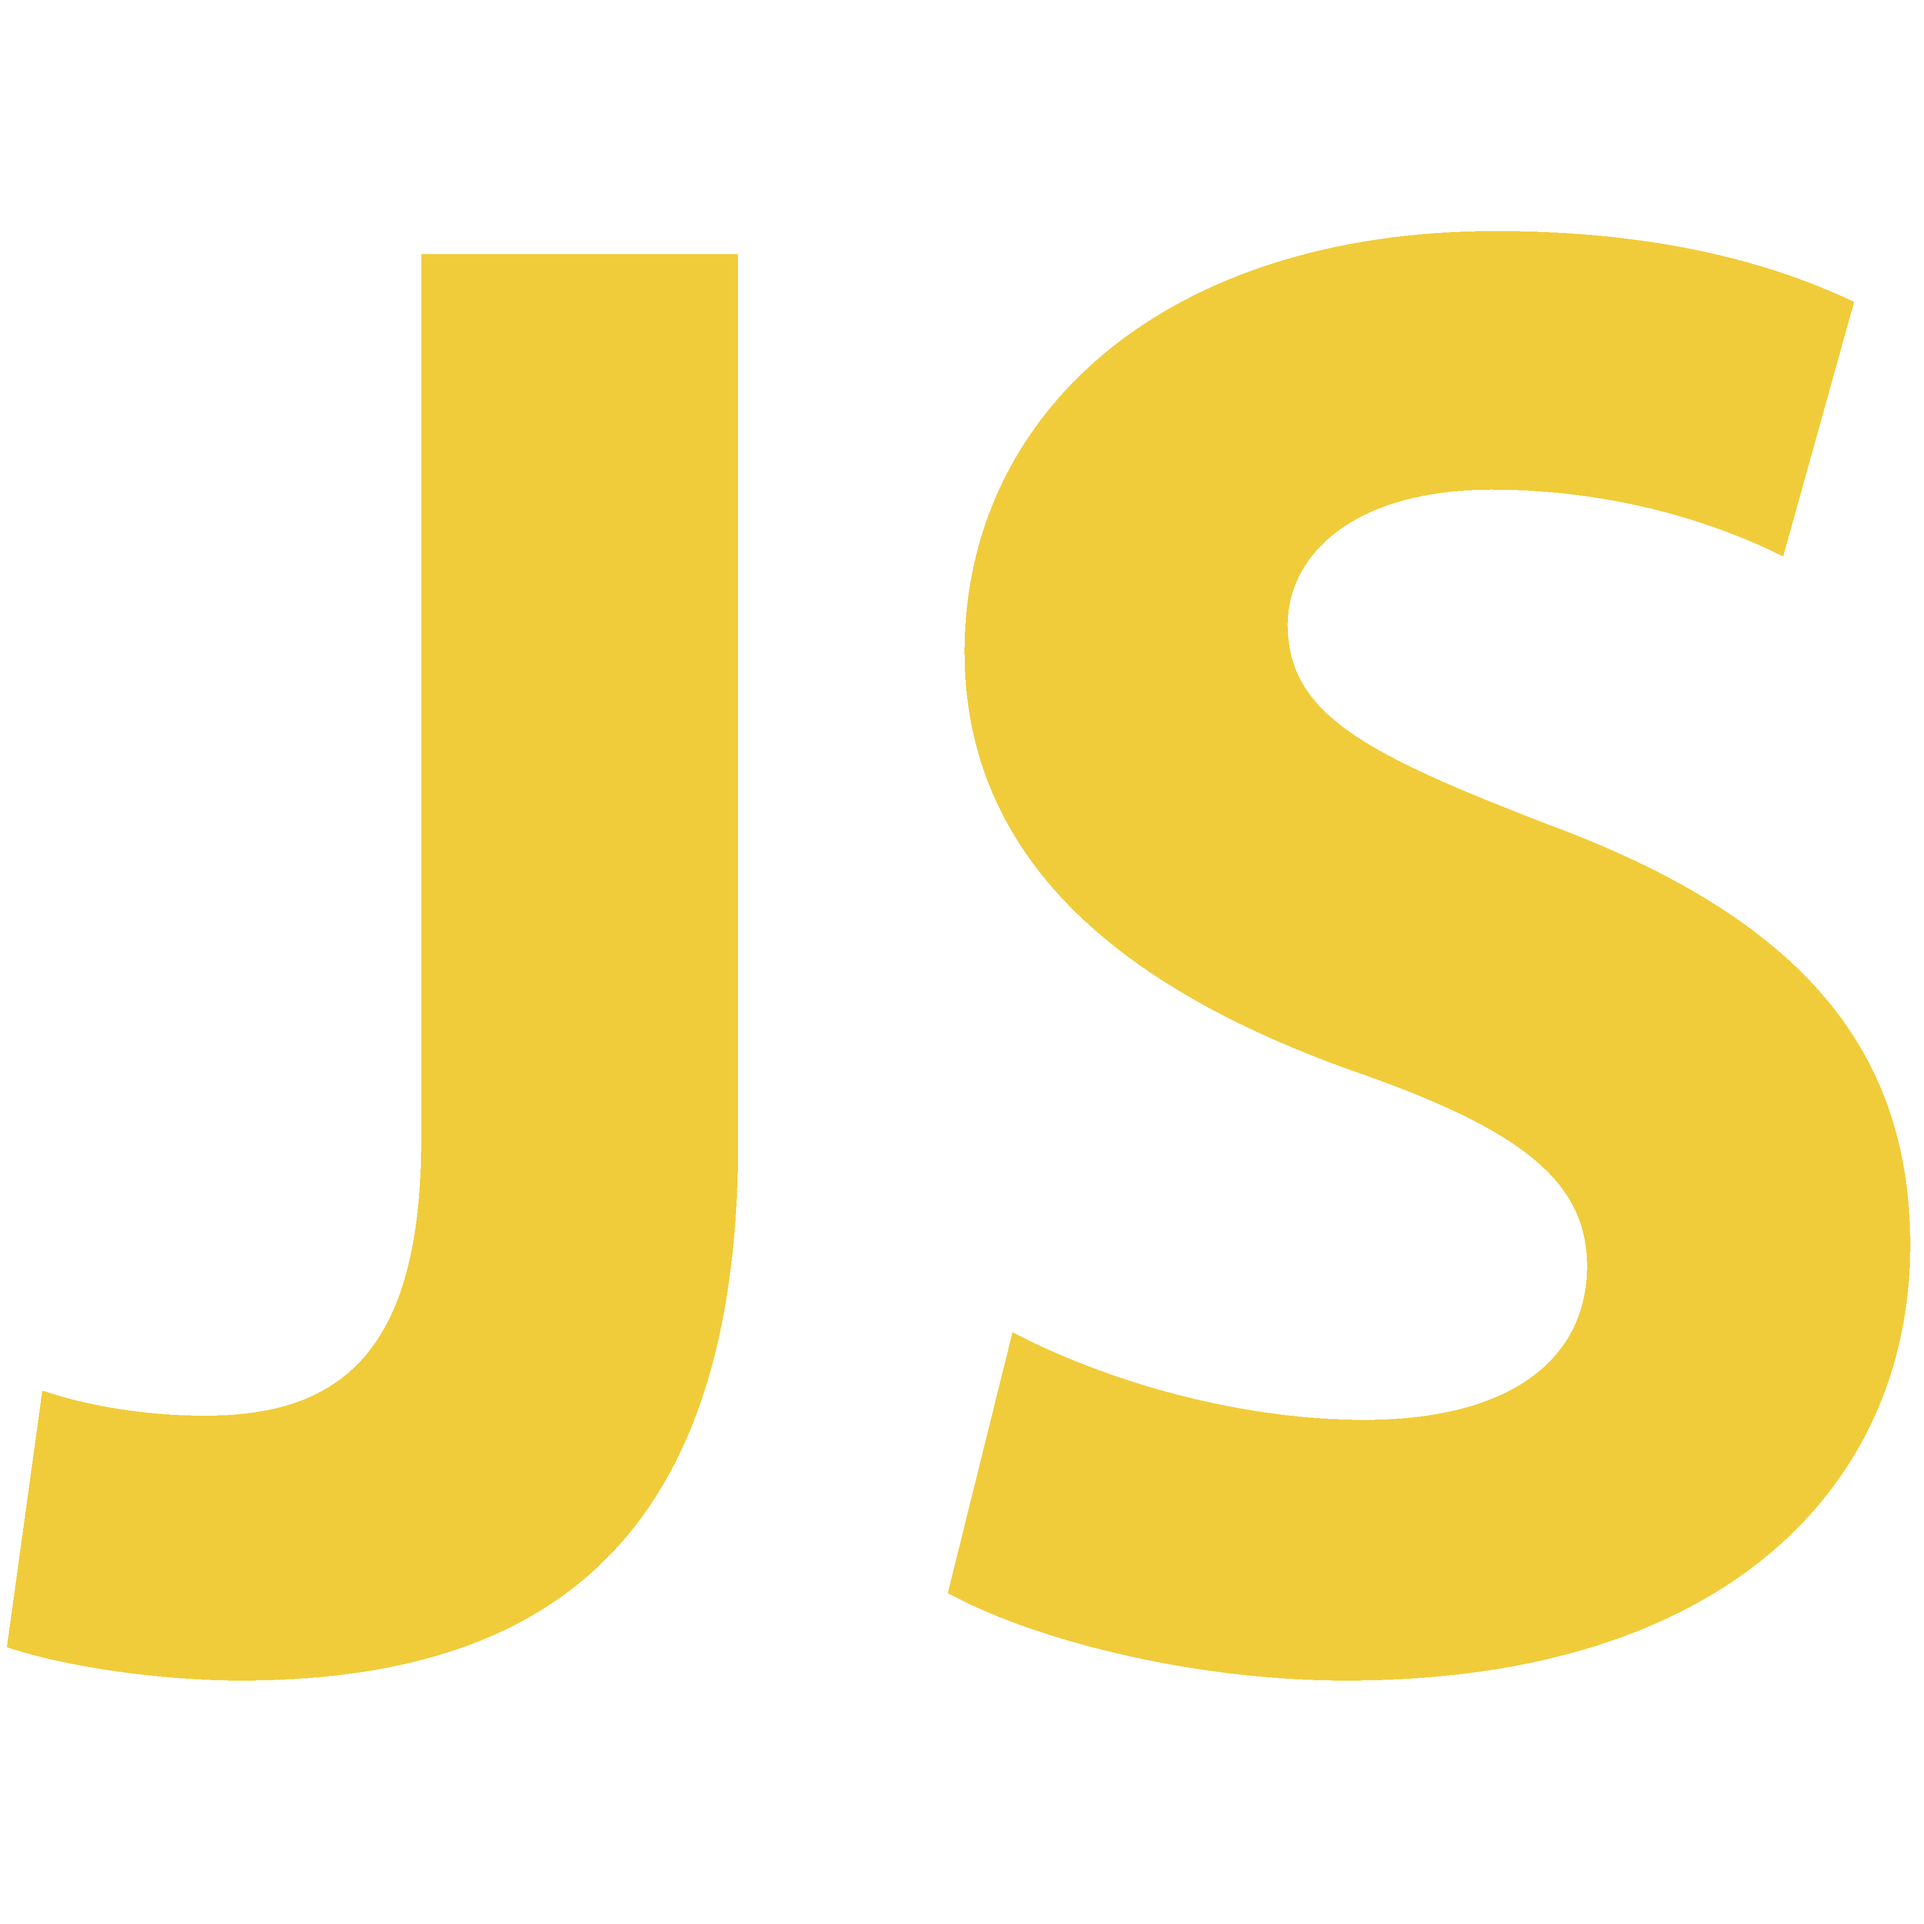
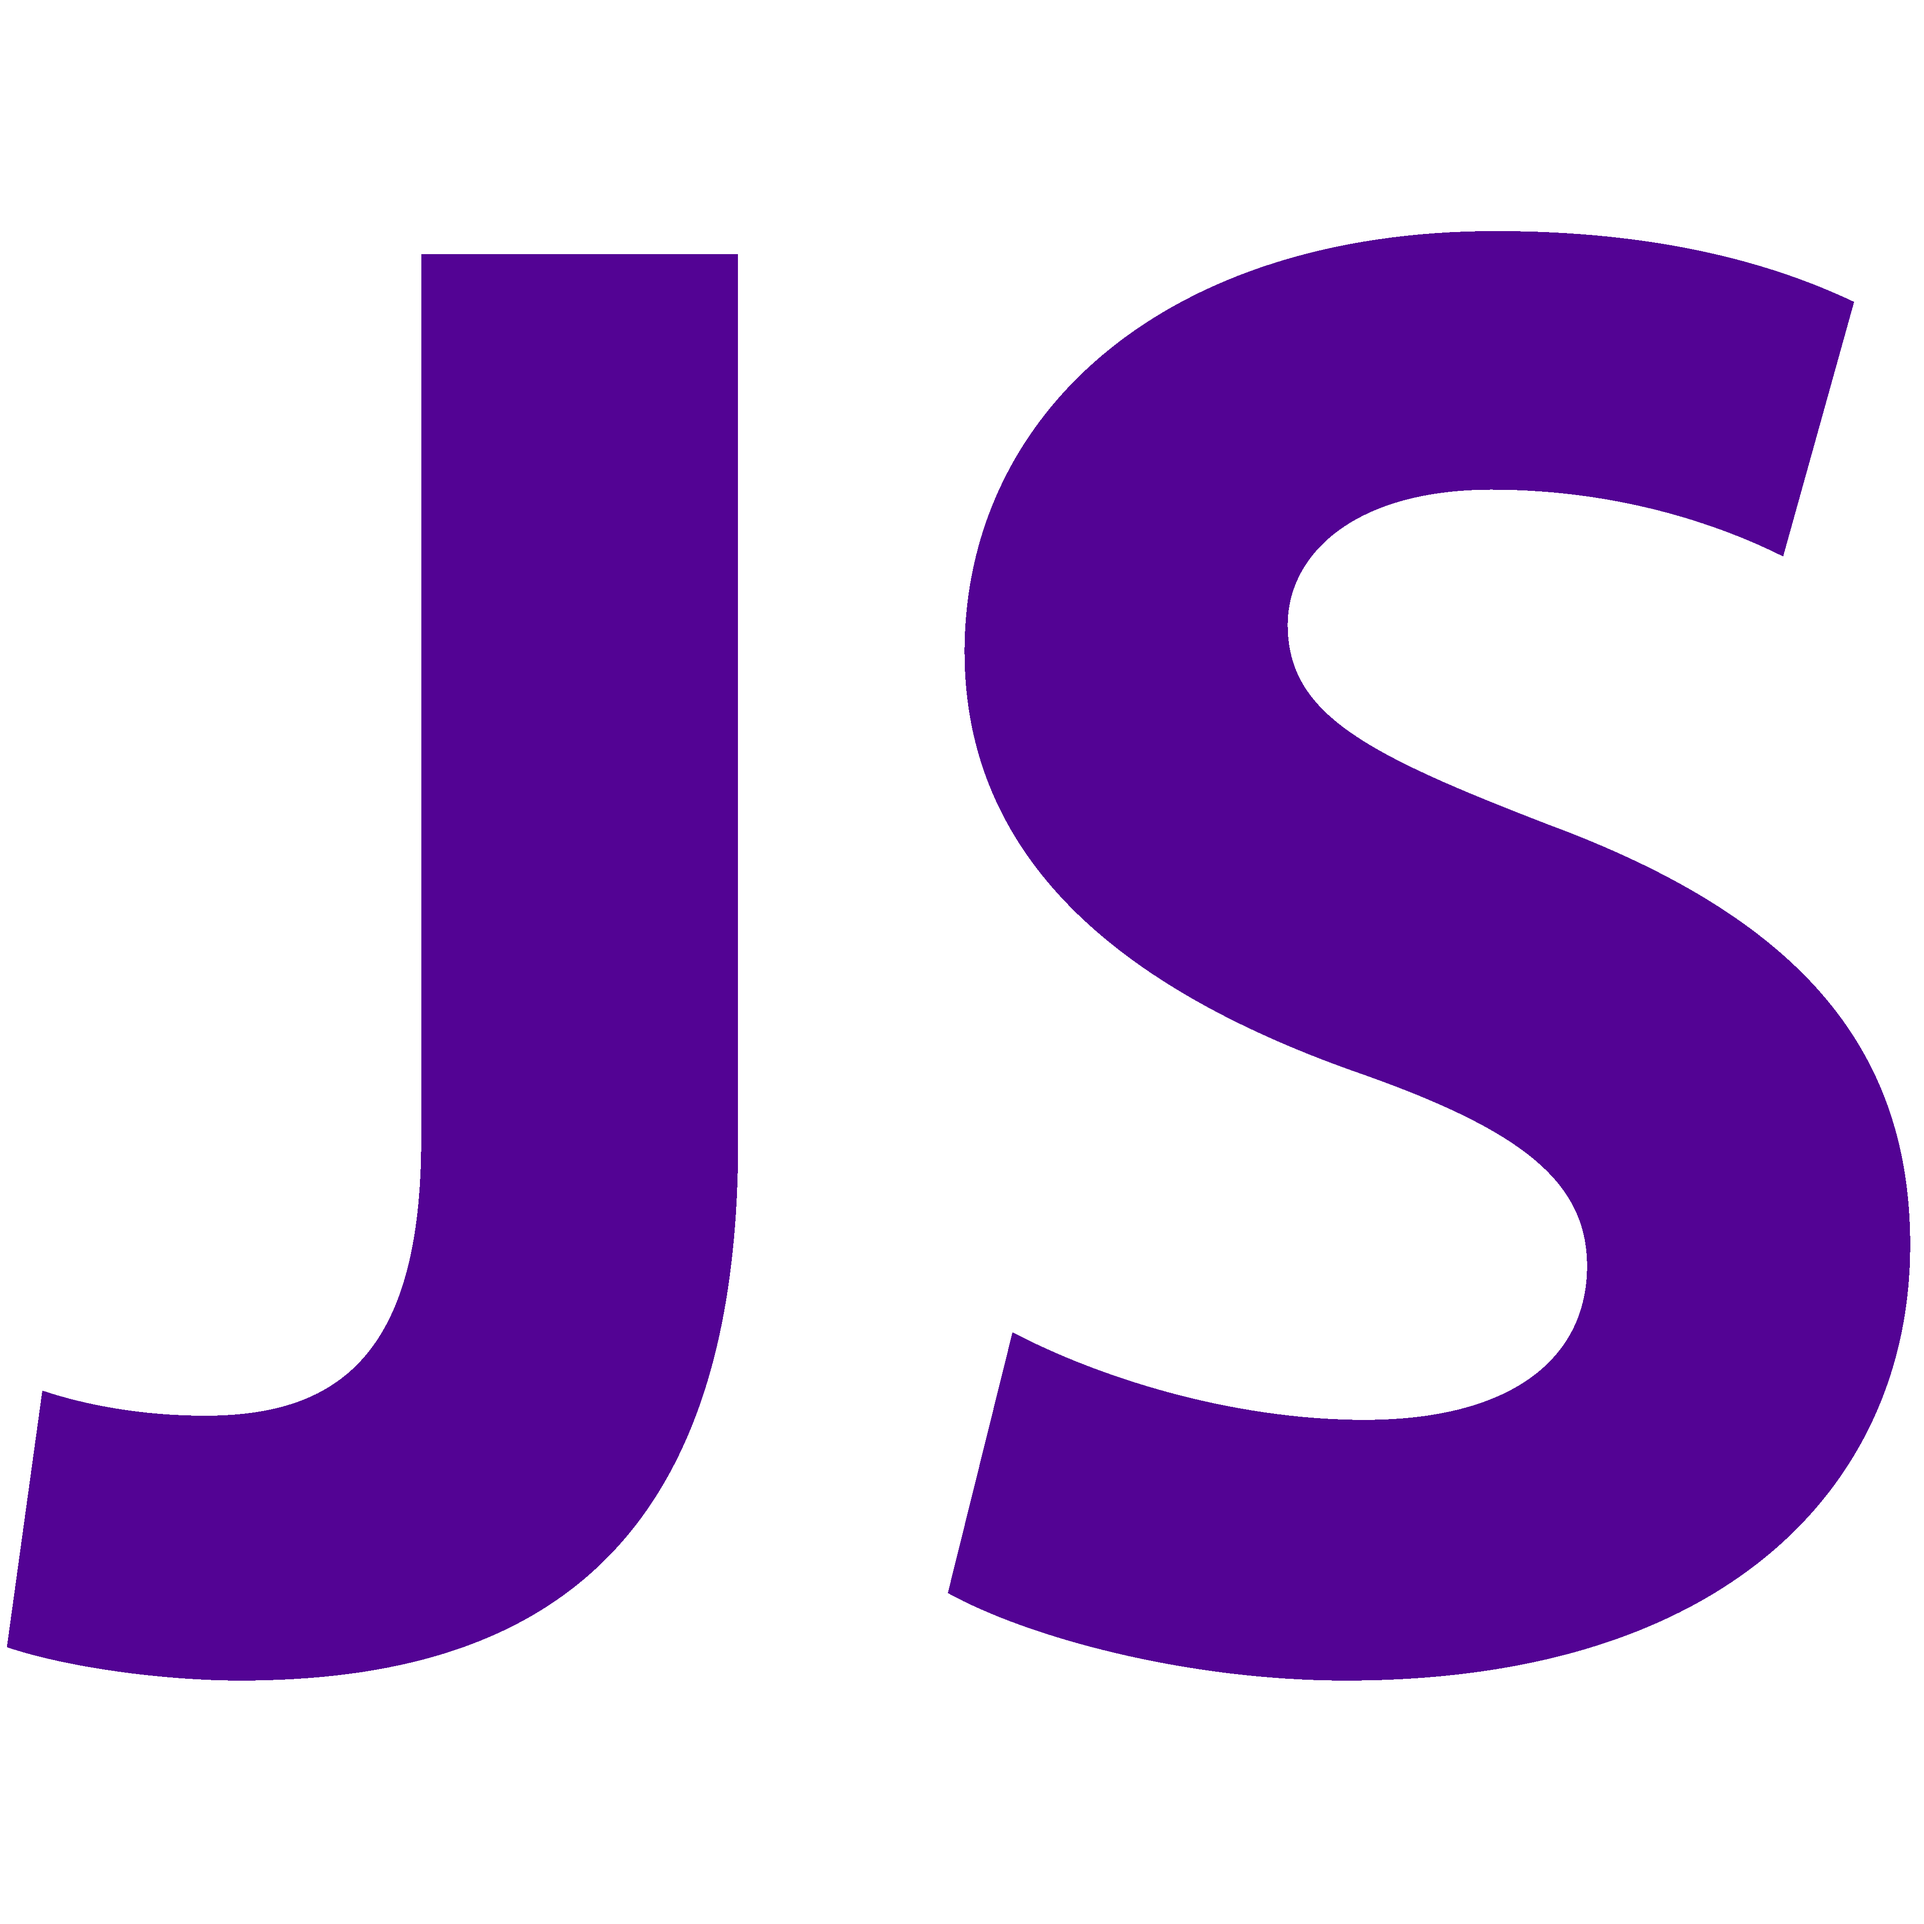
commit 23
mudando cor da logo linguagem

diff --git a/css/main.css b/css/main.css
@@ -461,10 +461,6 @@ a.navbar-brand {
 
 /*projetos*/
 
-.projetos {
-    height: 1500px;
-}
-
 .projetos h2 {
     display: flex;
     justify-content: center;
@@ -484,13 +480,9 @@ a.navbar-brand {
     
 }
 
-.photo:hover{
-    
-}
-
 
 .info-projeto {
-    background-color: #8f18ca34;
+    background-color: #8f18ca17;
     width: 354px;
     height: 80px;
     border-radius: 0px 0px 30px 30px;
@@ -501,7 +493,7 @@ a.navbar-brand {
     margin: auto;
     display: grid;
     grid-template-columns: repeat(auto-fit, minmax(354px, 1fr));
-    grid-gap: 30px 30px;
+    grid-gap: 50px 30px;
     max-width: 1200px;
     justify-content: center;
 }
@@ -510,7 +502,7 @@ a.navbar-brand {
     margin: 0 0!important;
     width: 354px;
     border-radius: 0px 0px 30px 30px;
-    box-shadow: 5px 5px 10px rgba(0, 0, 0, 0.788);
+    box-shadow: 10px 10px 20px rgba(0, 0, 0, 0.582);
 }
 
 .projetos span {

diff --git a/index.html b/index.html
@@ -177,7 +177,7 @@
 
         <section class="projetos" id="projetos">
             
-            <div class="container mb-5">
+            <div class="container mb-3">
                 <div class="titulo-projetos d-flex justify-content-center">
                     <h2 style="--animation-delay: 1">P</h2>
                     <h2 style="--animation-delay: 2">R</h2>
@@ -190,7 +190,7 @@
                 </div>
             </div>
 
-            <div class="container container-polaroid">
+            <div class="container container-polaroid mb-5">
                 <div class="polaroid">
                     <img class="photo" src="img/Captura de tela 2023-11-08 161817.png">
                     <div class="info-projeto">
